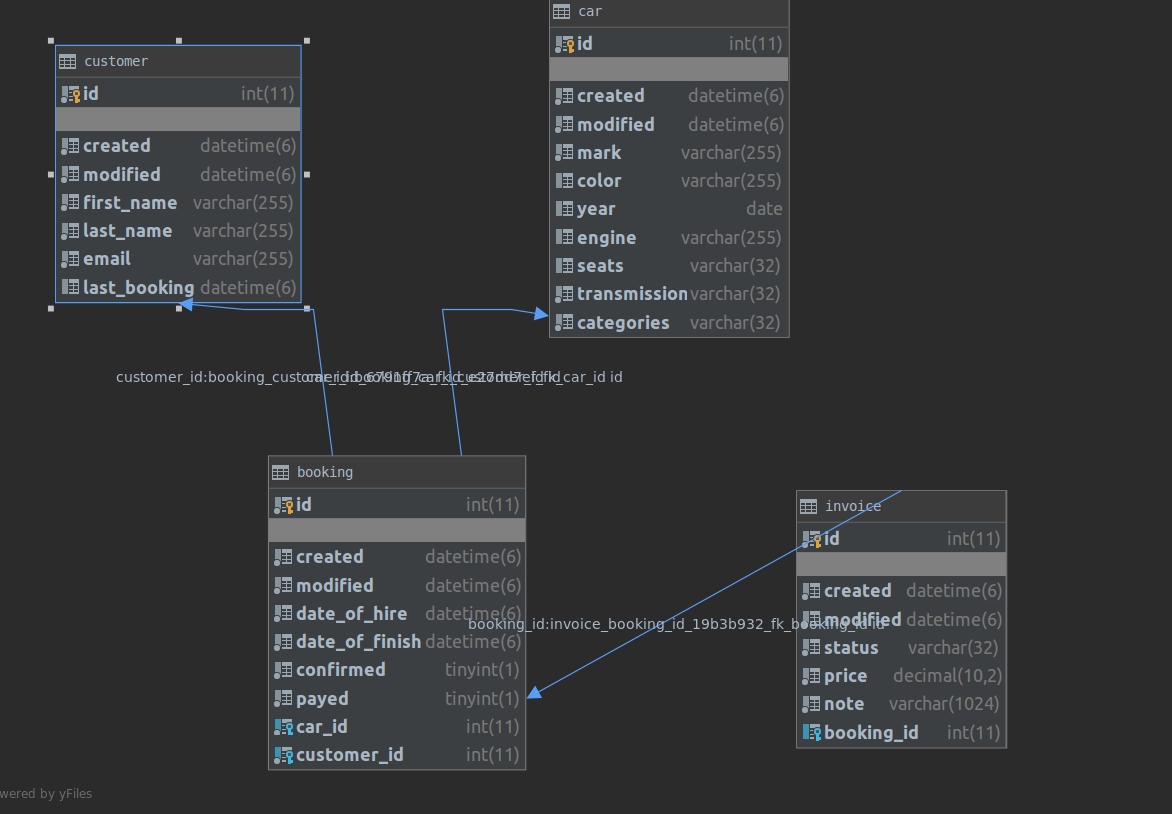
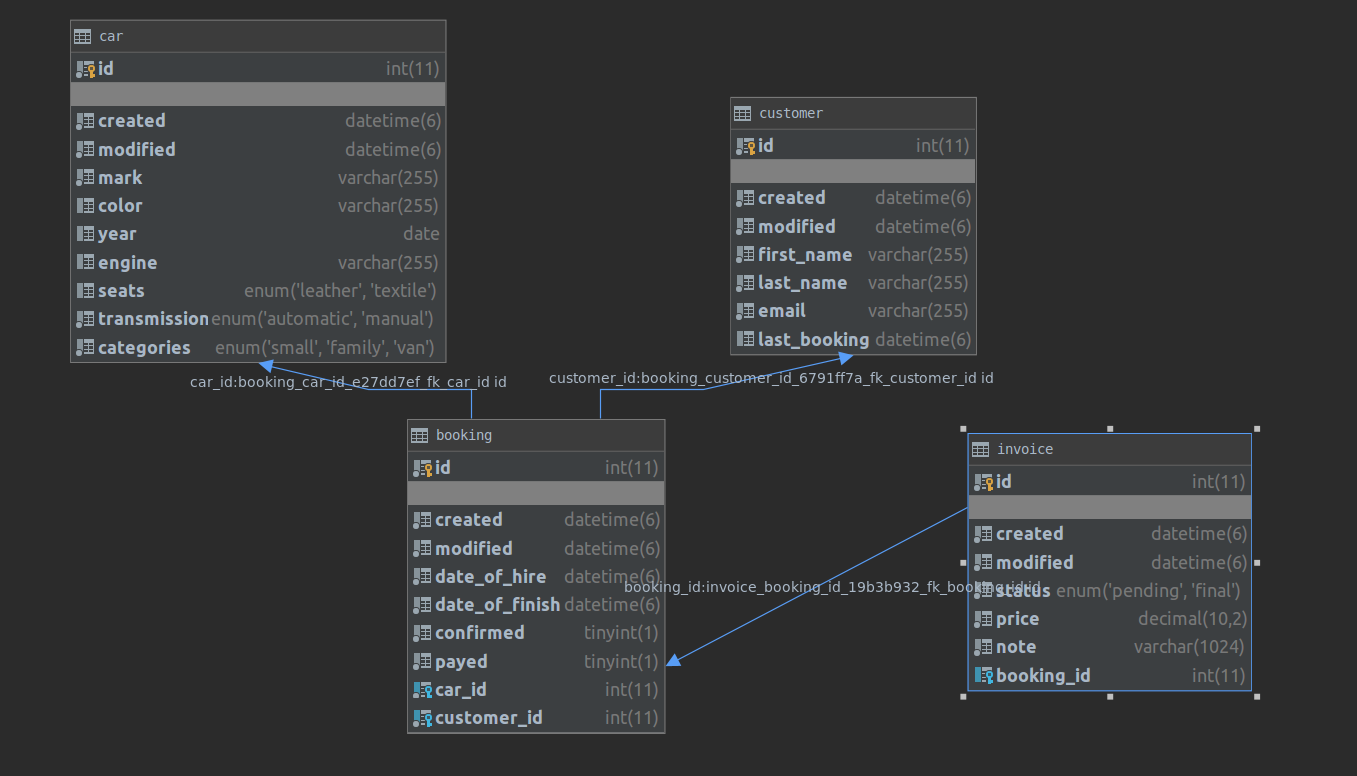
Change for some of the field types

Changed region(s): [[0.0307, 0.0, 0.9215, 0.9588], [0.0, 0.9588, 0.0614, 0.9897], [0.1229, 0.0309, 0.1536, 0.0619]]

diff --git a/api/cars/migrations/0002_auto_20210401_1415.py b/api/cars/migrations/0002_auto_20210401_1415.py
@@ -1,0 +1,29 @@
+# Generated by Django 3.1.7 on 2021-04-01 14:15
+
+from django.db import migrations
+import django_mysql.models
+
+
+class Migration(migrations.Migration):
+
+    dependencies = [
+        ('cars', '0001_initial'),
+    ]
+
+    operations = [
+        migrations.AlterField(
+            model_name='car',
+            name='categories',
+            field=django_mysql.models.EnumField(choices=[('small', 'Small Cars'), ('family', 'Family Cars'), ('van', 'Van')]),
+        ),
+        migrations.AlterField(
+            model_name='car',
+            name='seats',
+            field=django_mysql.models.EnumField(choices=[('leather', 'Leather'), ('textile', 'Textile')], null=True),
+        ),
+        migrations.AlterField(
+            model_name='car',
+            name='transmission',
+            field=django_mysql.models.EnumField(choices=[('automatic', 'Automatic'), ('manual', 'Manual')]),
+        ),
+    ]

diff --git a/api/cars/models.py b/api/cars/models.py
@@ -1,4 +1,5 @@
 from django.db import models
+from django_mysql.models import EnumField
 
 from api.cars.enums import SEATS, TRANSMISSION, CATEGORIES
 from api.core.manager import AbstractDateTime
@@ -9,9 +10,9 @@ class Car(AbstractDateTime):
     color = models.CharField(max_length=255, null=True)
     year = models.DateField(null=True)
     engine = models.CharField(max_length=255, null=True)
-    seats = models.CharField(max_length=32, choices=SEATS, null=True)
-    transmission = models.CharField(max_length=32, choices=TRANSMISSION)
-    categories = models.CharField(max_length=32, choices=CATEGORIES)
+    seats = EnumField(choices=SEATS, null=True)
+    transmission = EnumField(choices=TRANSMISSION)
+    categories = EnumField(choices=CATEGORIES)
 
     def __str__(self):
         return self.mark

diff --git a/api/bookings/models.py b/api/bookings/models.py
@@ -1,5 +1,6 @@
 from django.core.validators import MinValueValidator
 from django.db import models
+from django_mysql.models import EnumField
 
 from api.bookings.enums import INVOICE_STATUS
 from api.cars.models import Car
@@ -24,7 +25,7 @@ class Booking(AbstractDateTime):
 
 class BookingInvoice(AbstractDateTime):
     booking = models.OneToOneField(Booking, on_delete=models.SET_NULL, null=True)
-    status = models.CharField(max_length=32, choices=INVOICE_STATUS)
+    status = EnumField(choices=INVOICE_STATUS)
     price = models.DecimalField(decimal_places=2, max_digits=10, validators=[MinValueValidator(1.0)])
     note = models.CharField(max_length=1024)
 

diff --git a/api/bookings/migrations/0002_auto_20210401_1415.py b/api/bookings/migrations/0002_auto_20210401_1415.py
@@ -1,0 +1,19 @@
+# Generated by Django 3.1.7 on 2021-04-01 14:15
+
+from django.db import migrations
+import django_mysql.models
+
+
+class Migration(migrations.Migration):
+
+    dependencies = [
+        ('bookings', '0001_initial'),
+    ]
+
+    operations = [
+        migrations.AlterField(
+            model_name='bookinginvoice',
+            name='status',
+            field=django_mysql.models.EnumField(choices=[('pending', 'Pending'), ('final', 'Final')]),
+        ),
+    ]
